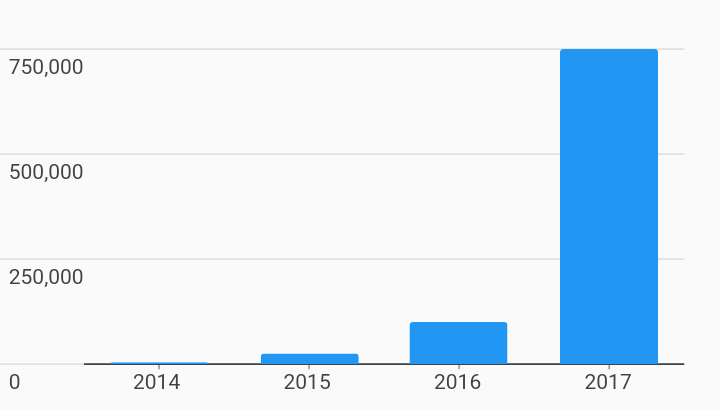
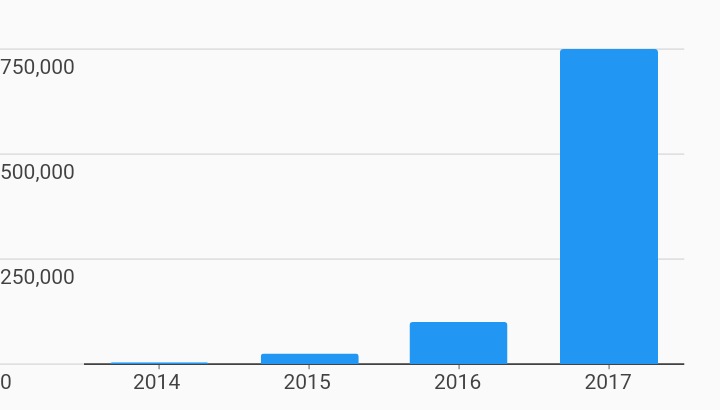
Internal changes
PiperOrigin-RevId: 305070616

diff --git a/charts_common/lib/src/chart/cartesian/axis/draw_strategy/base_tick_draw_strategy.dart b/charts_common/lib/src/chart/cartesian/axis/draw_strategy/base_tick_draw_strategy.dart
@@ -348,11 +348,12 @@ abstract class BaseTickDrawStrategy<D> implements TickDrawStrategy<D> {
     final isRtl = chartContext.isRtl;
     final labelElements = _splitLabel(tick.textElement);
     final labelHeight = _getLabelHeight(labelElements);
-    int multiLineLabelOffset = 0;
+    final labelWidth = _getLabelWidth(labelElements);
+    var multiLineLabelOffset = 0;
 
     for (final line in labelElements) {
-      int x = 0;
-      int y = 0;
+      var x = 0;
+      var y = 0;
 
       if (orientation == AxisOrientation.bottom ||
           orientation == AxisOrientation.top) {
@@ -385,7 +386,7 @@ abstract class BaseTickDrawStrategy<D> implements TickDrawStrategy<D> {
             x = axisBounds.right - labelOffsetFromAxisPx;
             line.textDirection = TextDirection.rtl;
           } else {
-            x = axisBounds.left + labelOffsetFromAxisPx;
+            x = axisBounds.left;
             line.textDirection = TextDirection.ltr;
           }
         } else {
@@ -394,7 +395,7 @@ abstract class BaseTickDrawStrategy<D> implements TickDrawStrategy<D> {
             x = axisBounds.left + labelOffsetFromAxisPx;
             line.textDirection = TextDirection.ltr;
           } else {
-            x = axisBounds.right - labelOffsetFromAxisPx;
+            x = axisBounds.right;
             line.textDirection = TextDirection.rtl;
           }
         }

diff --git a/docs/flutter/gallery.md b/docs/flutter/gallery.md
@@ -54,6 +54,12 @@
 | Auto Label<br>[![](example/pie_charts/auto_label_thumb.png)](example/pie_charts/auto_label) | Gauge<br>[![](example/pie_charts/gauge_thumb.png)](example/pie_charts/gauge) | | |
 
 
+### TreeMap Charts
+
+| | | | |
+| --- | --- | --- | --- |
+
+
 ### Axes
 
 | | | | |
